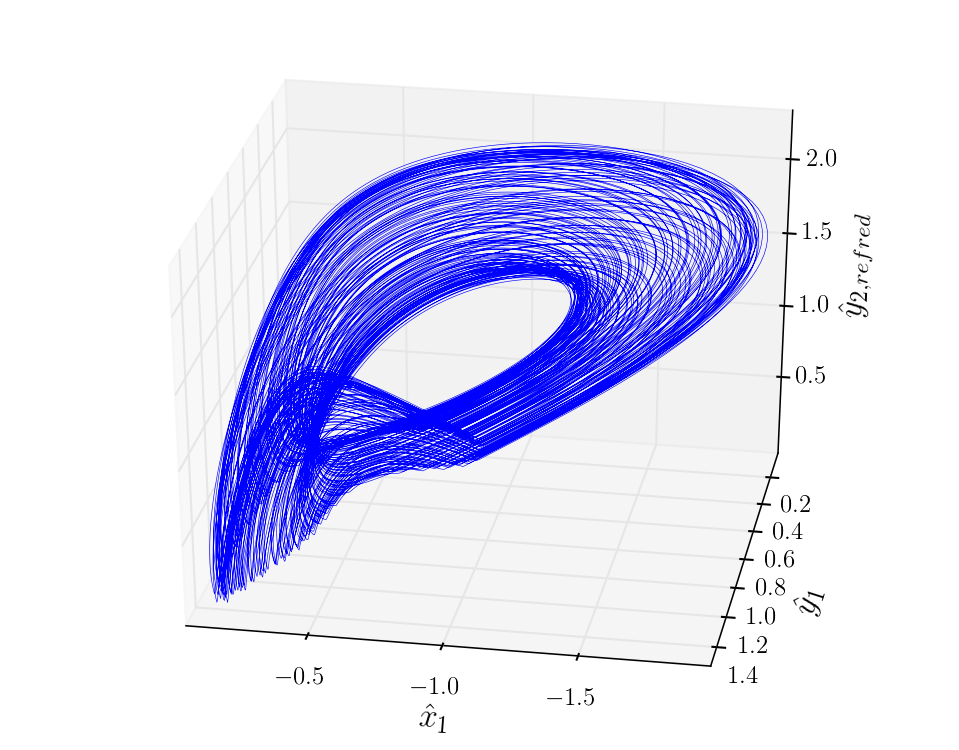
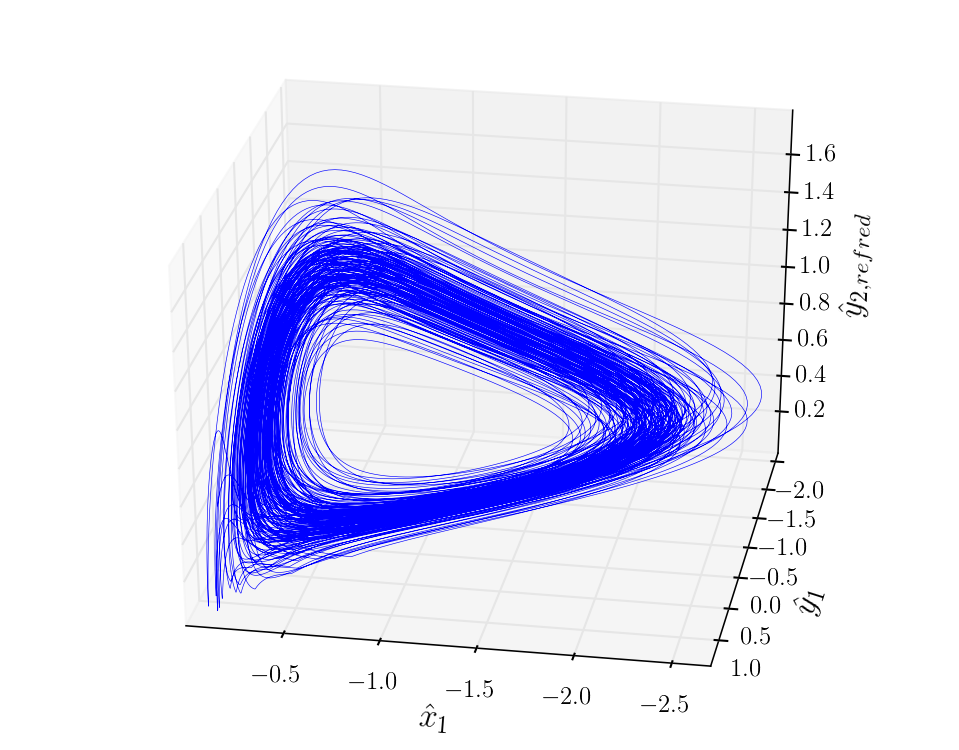
explained the single slice one more time, and posted a smoother reduced KS plot

diff --git a/blog/dailyBlogBB.tex b/blog/dailyBlogBB.tex
@@ -543,13 +543,16 @@ then run
 
 in the same folder. This should generate a Matlab-like rotatable figure.
 
-\begin{figure}[ht]
-\begin{center}
-\includegraphics[width=0.9\textwidth]{BBKSmovframes}
-\end{center}
-\caption{ Symmetry reduced \KS\ flow . }
+\begin{figure}[H]
+\centering
+ (a) \includegraphics[width=0.45\textwidth]{BBKSmovframes}
+ (b) \includegraphics[width=0.45\textwidth]{BBKSmovframesb}
+\caption{(a) Symmetry reduced \KS\ flow with time resolution $\Delta t = 0.1$.
+(b) Symmetry reduced \KS\ flow with time resolution $\Delta t = 0.01$.
+}
 \label{fig:BBKSmovframes}
 \end{figure}
+
 
 \item[2013-10-03 Evangelos to Burak] I hate it to sound like Kassandra, but I do not 
 see where 'magic' in your slice comes from. 
@@ -584,6 +587,85 @@ proposal. For instance, in contrast to the 2 modes system, KS has no invariant
 subspace $a_1=0$, so nothing prevents the flow from crossing the 'chart border'.
 I think this is what you see in your figure, and refined numerical integration
 will not help.
+
+\item[2013-11-04 Burak to Evangelos] To show that higher time resolution 
+smoothens the discontinuities I sampled the solution with a higher rate and 
+applied the same symmetry reduction.  You can see that \reffig{fig:BBKSmovframes}(b)
+does not have the annoying jumps of \reffig{fig:BBKSmovframes}(a), only difference
+in the production of the two is the spacing between time samples. 
+
+I'll try to explain the magic by writing the slice and chart border conditions
+and rotations explicitly for different cases. If we define $Re[a_1] = x_1$ and
+$Im[a_1] = y_1$, $\SOn{2}$ opreation on these coordinates yields
+\bea
+	\hat{x}_1 &=& \cos{\phi} \, x_1 + \sin{\phi} \, y_1
+	\continue
+	\hat{y}_1 &=& - \sin{\phi} \, x_1 + \cos{\phi} \, y_1 \, .
+	\label{eq:SO2on1stmode}
+\eea
+Let's take the \template\ as $\slicep = \{0,1\}$. For this template, \slice\ 
+condition is
+\beq
+	\hat{x}_1 = 0 \, ;
+	\label{eq:SliceCondIma1}
+\eeq
+and the \chartBord\ is defined by
+\beq
+	\hat{y}^*_1 = 0 \, .
+	\label{eq:ChartBordIma1}
+\eeq
+Substituting \refeq{eq:SliceCondIma1} in \refeq{eq:SO2on1stmode}, we get
+\bea
+	0 &=& \cos{\phi} \, x_1 + \sin{\phi} \, y_1 \rightarrow\ x_1 = - \frac{\sin{\phi}}{\cos{\phi}} y_1 ,
+	\continue
+	\hat{y}_1 &=&  \sin{\phi} \, \frac{\sin{\phi}}{\cos{\phi}} y_1 + \cos{\phi} \, y_1 \, \rightarrow\ \hat{y}_1 = \frac{y_1}{\cos{\phi}} \, .
+	\label{eq:SO2on1stmodeIma1}
+\eea
+We see that, whenever the flow crosses $Im[a_1] = 0$ we cross the \chartBord , 
+which is something frequently happens in both \KS\ and \twoMode\ systems. You
+would get a similar condition if you had choosen the \template\ as $\slicep = \{0,1\}$.
+
+Now let's take the \template\ $\slicep = \{1,1\}$. For this one, \slice\
+condition is
+\beq
+	\hat{x}_1 = \hat{y}_1 \, ;
+	\label{eq:SliceConda1}
+\eeq
+and the \chartBord\ is defined by
+\beq
+	\hat{x}^*_1 = \hat{y}^*_1 = 0 \, .
+	\label{eq:ChartBorda1}
+\eeq
+You can easily see by following the same steps that only the solutions with
+$x_1 = y_1 = 0$ are mapped to the \chartBord\ defined by \refeq{eq:ChartBorda1}.
+This condition is much more restrictive than the previous one. It is not allowed
+in \twoMode\ case by the fact that it is in an invariant subspace and I, myself,
+haven't encountered that in \KS\ solutions; other than the \rpo s with fundamental
+frequencies of second or third mode.  
+
+I agree that \template s $\slicep = \{1,1,0,0\}$ and $\slicep = \{0,1,0,0\}$  
+are geometrically equivalent to each other and they would yield similar results
+using \mframes , however, I would expect you to be in trouble if you integrate
+within the \slice\ of $\slicep = \{0,1,0,0\}$ .
+
+In addition to my strong belief that it is extremely unlikely to have a zero
+magnitude 1st mode, I am almost sure that you cannot cross the \chartBord\ 
+\refeq{eq:ChartBorda1} since in the \mframes\ you make a direction choice
+which restricts the \reducedsp\ to a half space in which $\Re[a_1]$
+is either greater or lesser than $0$ for the choice $\slicep = \{1,1,0,0\}$, 
+hence, the worst you can do is to touch the \chartBord\ and come back to safety. 
+You can see this on \reffig{fig:BBKSmovframes}. In \reffig{fig:BBKSmovframes},
+the direction choice resulted $Re[\hat{a}_1]$ being lesser than 0 and the 
+projection of the \chartBord\ is the plane $Re[\hat{a}_1] = 0$. The flow 
+gets close to that but never crosses it.
+
+Regarding your former discussions, I'm totally on Ruslan's side. I think the
+smallest non-vanishing Fourier mode is the most natural basis for the symmetry 
+reduction of an equation defined on a periodic domain.
+
+I would be convinced that what I am suggesting here is no better than what 
+you tried before if you show me an example of a \KS\ solution that crosses 
+$|a_1| = 0$. 
 
 \end{description}
 \renewcommand{\ssp}{a}

diff --git a/blog/burak/PorterKnobloch/python/onslicesolver.py b/blog/burak/PorterKnobloch/python/onslicesolver.py
@@ -11,7 +11,7 @@ from scipy.integrate import odeint
 import twomode
 
 T = twomode.generator()
-xhatp = np.array([1,1,0,0],float)
+xhatp = np.array([1,0,0,0],float)
 tp = np.dot(T, xhatp)
 
 def vphi(x,t,p):
